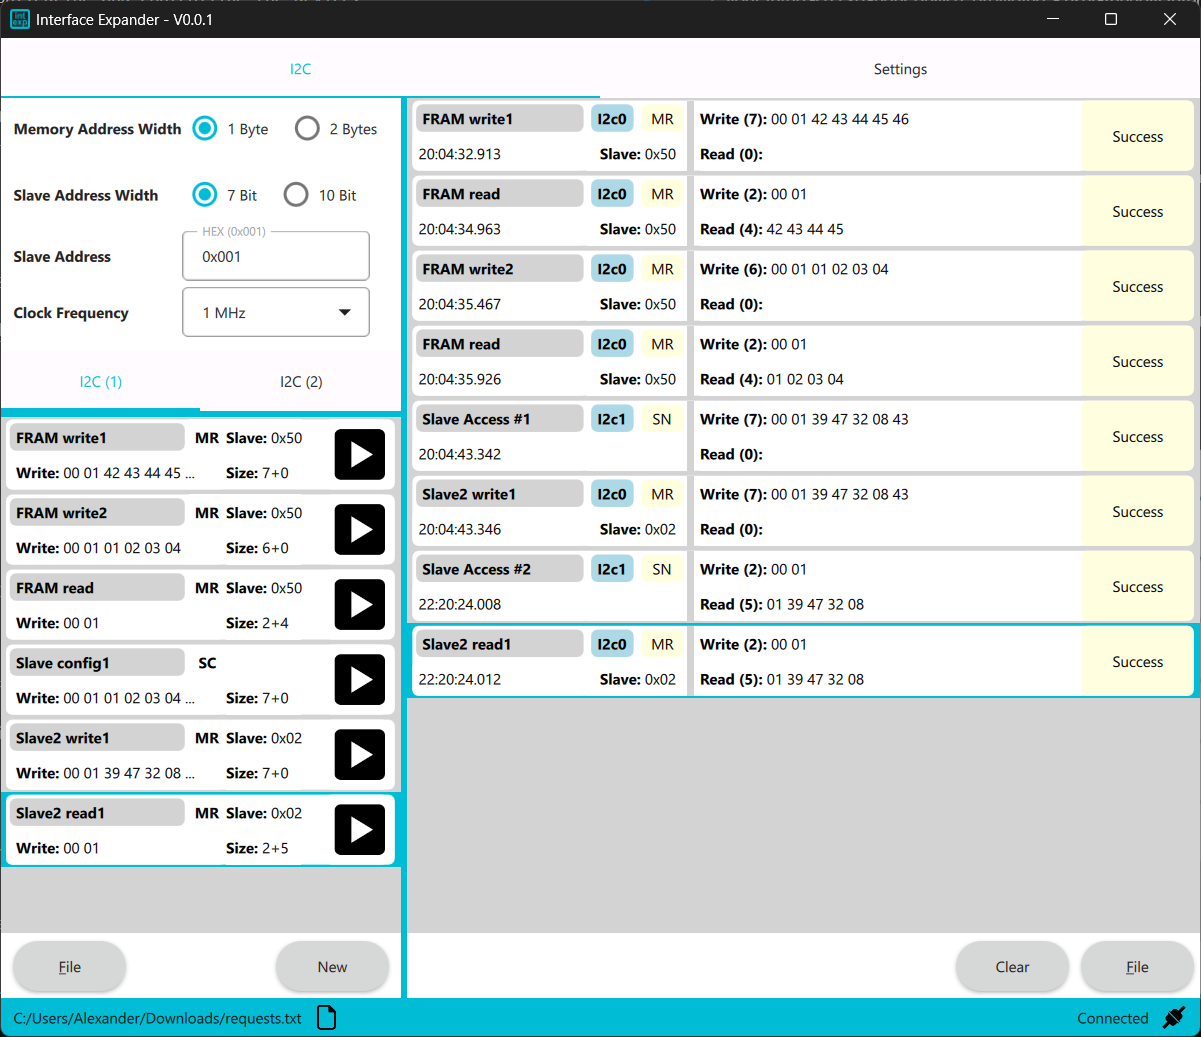
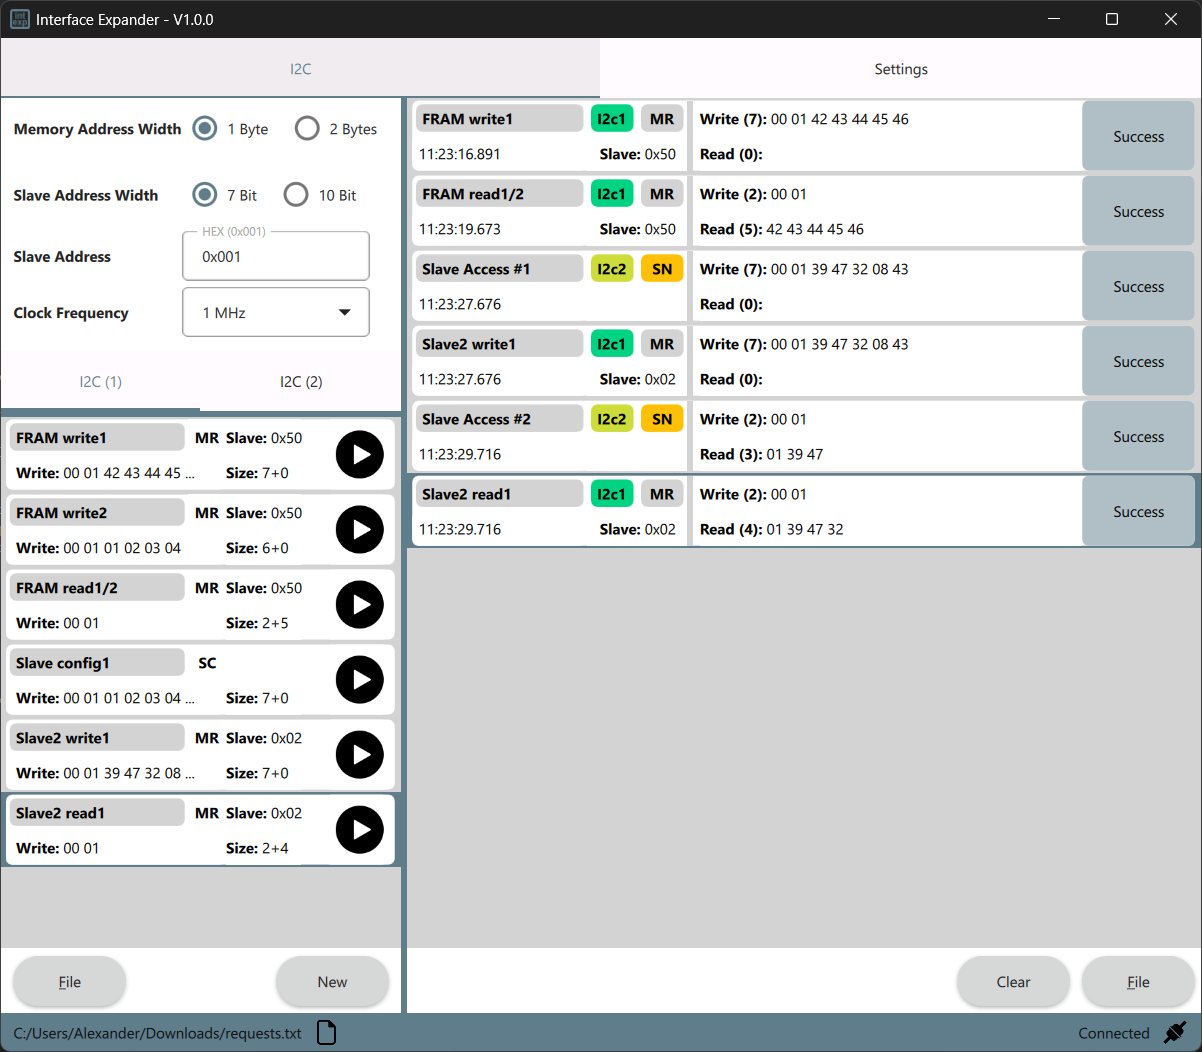
Minor improvements

diff --git a/ExpanderUi/ui/panels/I2cRequestFormMasterTab.qml b/ExpanderUi/ui/panels/I2cRequestFormMasterTab.qml
@@ -83,6 +83,7 @@ ColumnLayout {
             Layout.preferredWidth: 100
             Layout.preferredHeight: 40
             text: rootStore.i2cStore.i2cRequestForm.writeSize
+            placeholderText: "DEC"
             enabled: false
         }
 
@@ -102,7 +103,7 @@ ColumnLayout {
             Layout.preferredWidth: 80
             Layout.preferredHeight: 40
             text: rootStore.i2cStore.i2cRequestForm.readSize
-            placeholderText: "DEC (42)"
+            placeholderText: "DEC"
             validator: RegularExpressionValidator {
                 // Allow only hex numbers no larger than 10 bits
                 regularExpression: constants.regExpReadSize

diff --git a/ExpanderUi/ui/panels/I2cRequestFormSlaveTab.qml b/ExpanderUi/ui/panels/I2cRequestFormSlaveTab.qml
@@ -82,6 +82,7 @@ ColumnLayout {
             Layout.preferredWidth: 100
             Layout.preferredHeight: 40
             text: rootStore.i2cStore.i2cRequestForm.writeSize
+            placeholderText: "DEC"
             enabled: false
         }
 
@@ -101,7 +102,7 @@ ColumnLayout {
             Layout.preferredWidth: 80
             Layout.preferredHeight: 40
             text: rootStore.i2cStore.i2cRequestForm.readSize
-            placeholderText: "DEC (42)"
+            placeholderText: "DEC"
             validator: RegularExpressionValidator {
                 // Allow only hex numbers no larger than 10 bits
                 regularExpression: constants.regExpReadSize

diff --git a/ExpanderUi/ui/components/I2cRequestListComponent.qml b/ExpanderUi/ui/components/I2cRequestListComponent.qml
@@ -165,7 +165,8 @@ Item {
                         anchors.fill: parent
                         fillMode: Image.PreserveAspectFit
                         anchors.margins: 4
-                        source: "/ExpanderUi/ui/resources/images/play_square_100.png"
+                        //source: "/ExpanderUi/ui/resources/images/play_square_100.png"
+                        source: "/ExpanderUi/ui/resources/images/play_round_90.png"
                     }
 
                     MouseArea {

diff --git a/ExpanderUi/ui/stores/Constants.qml b/ExpanderUi/ui/stores/Constants.qml
@@ -9,7 +9,7 @@ Item {
     readonly property color primaryColor: "#607D8B"
     readonly property color footerColor:  "#607D8B"
 
-    readonly property color i2c0Color: "#4CAF50"
+    readonly property color i2c0Color: "#00D482" //"#4CAF50"
     readonly property color i2c1Color: "#CDDC39"
     readonly property color masterColor: "lightgray"
     readonly property color slaveColor: "#FFC107"
